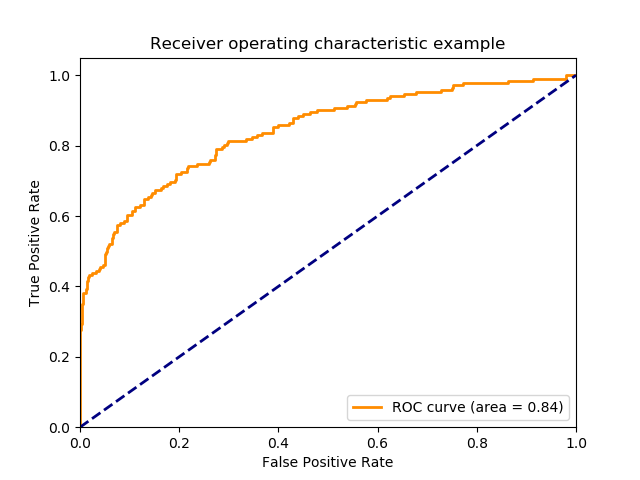
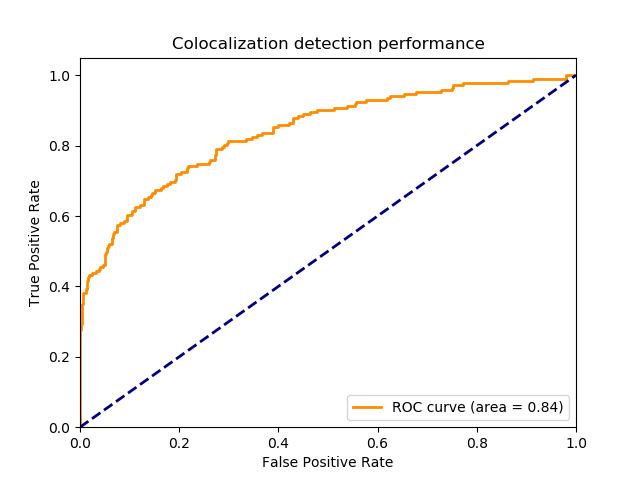
got ROC and AUC analysis working for all submethods, including ensemble

Changed region(s): [[0.2188, 0.0625, 0.7812, 0.125]]

diff --git a/scripts/ensemble_training/eval/eval_multilogreg.py b/scripts/ensemble_training/eval/eval_multilogreg.py
@@ -47,35 +47,45 @@ print(accuracy_score(testY, predY))
 predProbY = logreg.predict_proba(testX)
 print(predProbY)
 
-# Compute ROC curve and ROC area for each class
+
+#load submethod names
+method_names_path = "/users/j29tien/colocalization_ML/feature_names.tsv"
+df = pd.read_csv(method_names_path, sep="\t")
+method_names = df.columns.values
+
+# Compute ROC curve and ROC area for each method
 fpr = dict()
 tpr = dict()
 roc_auc = dict()
-#for i in range(n_classes):
-    #fpr[i], tpr[i], _ = roc_curve(testY[:, i], predProbY[:, i])
-    #roc_auc[i] = auc(fpr[i], tpr[i])
 
-fpr,tpr,_ = roc_curve(testY, predProbY[:,1])
-roc_auc = auc(fpr, tpr)
+n_submethods = 10 #coloc, rtc, finemap-clpp, finemap-clpp_mod, caviarbf, baseline, smart_baseline, smr, smr-heidi, gsmr
+for i in range(n_submethods):
+    fpr[i], tpr[i], _ = roc_curve(testY, testX[:, i*2]) #pulling out rows of raw scores from each method (row 0, 2, 4, ... 18)
+    roc_auc[i] = auc(fpr[i], tpr[i])
+# store ensemble performance at n_submethods'th index
+fpr[n_submethods],tpr[n_submethods],_ = roc_curve(testY, predProbY[:,1]) # index gives probability for 0/FALSE, then 1/TRUE
+roc_auc[n_submethods] = auc(fpr[n_submethods], tpr[n_submethods])
 
-# Compute micro-average ROC curve and ROC area --> NOT NECESSARY, not multiclass (only TRUE or FALSE)
-#fpr["micro"], tpr["micro"], _ = roc_curve(y_test.ravel(), y_score.ravel())
-#roc_auc["micro"] = auc(fpr["micro"], tpr["micro"])
-
-
-weights = np.ravel(logreg.coef_) # returns a matrix of weights (coefficients)
-print(weights)
+#weights = np.ravel(logreg.coef_) # returns a matrix of weights (coefficients)
+#print(weights)
 
 # plot ROC for the multilogreg ensemble method
-plt.figure()
+plt.figure(figsize=(20, 15))
 lw = 2
-plt.plot(fpr, tpr, color='darkorange', lw=lw, label='ROC curve (area = %0.2f)' % roc_auc)
+plt.plot(fpr[n_submethods], tpr[n_submethods], color='darkorange', linewidth=4, linestyle = ':', label='ensemble, logisitic regression (area = %0.2f)' % roc_auc[n_submethods])
 plt.plot([0, 1], [0, 1], color='navy', lw=lw, linestyle='--')
+
+colors = cycle(['aqua', 'dimgray', 'cornflowerblue', 'orangered', 'gold', 'chartreuse', 'forestgreen', 'darkviolet', 'deeppink', 'crimson'])
+for i, color in zip(range(n_submethods), colors):
+    plt.plot(fpr[i], tpr[i], color=color, lw=lw,
+             label='{0} (area = {1:0.2f})'
+             ''.format(method_names[i*2], roc_auc[i]))
+
 plt.xlim([0.0, 1.0])
 plt.ylim([0.0, 1.05])
 plt.xlabel('False Positive Rate')
 plt.ylabel('True Positive Rate')
-plt.title('Receiver operating characteristic example')
+plt.title('Comparison of colocalization identification methods')
 plt.legend(loc="lower right")
-plt.savefig("/users/j29tien/colocalization_ML/coloc_comparison/scripts/ensemble_training/eval/multilogreg_ROC.png")
+plt.savefig("/users/j29tien/colocalization_ML/coloc_comparison/scripts/ensemble_training/eval/comp_ROC.png")
 
